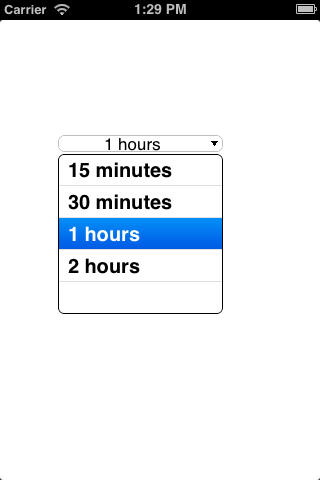
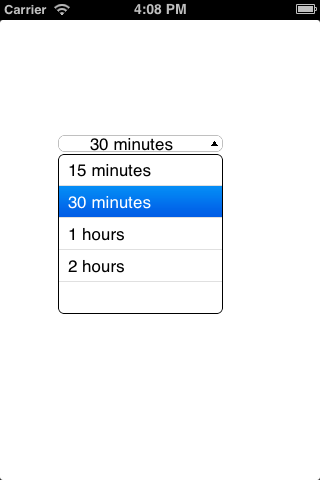
Add “up arrow” and change the font of tableView.

diff --git a/UIComboBox/UIComboBox.m b/UIComboBox/UIComboBox.m
@@ -167,6 +167,9 @@
     }
     
     if (_tableView.superview == nil) {
+        _rightView.image = [UIImage imageNamed:@"combobox_up"];
+        _rightView.highlightedImage = [UIImage imageNamed:@"combobox_up_highlighed"];
+        
         CGRect frame = _tableView.frame;
         frame.size.height = 160.0;
         
@@ -187,16 +190,16 @@
                                 animated:YES
                           scrollPosition:UITableViewScrollPositionMiddle];
         
-        UIWindow *keyWindow = [[UIApplication sharedApplication] keyWindow];
-        assert(keyWindow);
-        CGRect rc = keyWindow.frame;
-
         if (_passthroughView == nil) {
+            CGRect rc = [[UIApplication sharedApplication] keyWindow].frame;
+
             _passthroughView = [[PassthroughView alloc] initWithFrame:rc];
             _passthroughView.passViews = [NSArray arrayWithObjects:self, _tableView, nil];
             _passthroughView.delegate = self;
         }
         [self.superview addSubview:_passthroughView];
+    } else {
+        [self doClearup];
     }
 
 }
@@ -247,6 +250,7 @@
     UITableViewCell* cell = [tableView dequeueReusableCellWithIdentifier:identifier];
     if (cell==nil) {
         cell = [[UITableViewCell alloc] initWithStyle:UITableViewCellStyleDefault reuseIdentifier:identifier];
+        cell.textLabel.font = _textLabel.font;
     }
     cell.textLabel.text = [[_entries objectAtIndex:[indexPath row] ] description];
     return cell;
@@ -273,6 +277,8 @@
     [_tableView removeFromSuperview];
     [_passthroughView removeFromSuperview];
 #endif
+    _rightView.image = [UIImage imageNamed:@"combobox_down"];
+    _rightView.highlightedImage = [UIImage imageNamed:@"combobox_down_highlighed"];
 }
 
 
